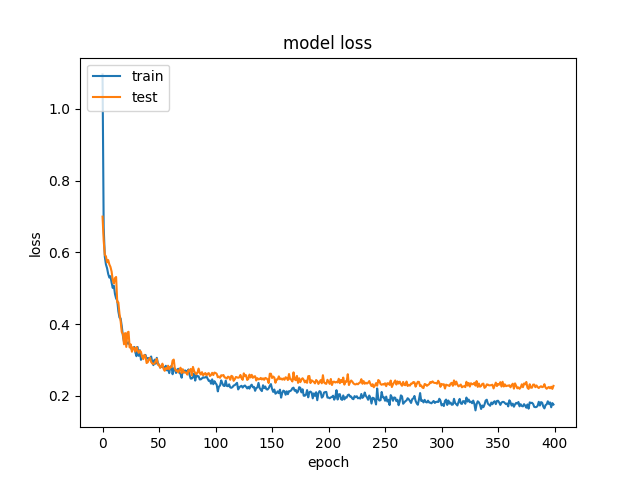
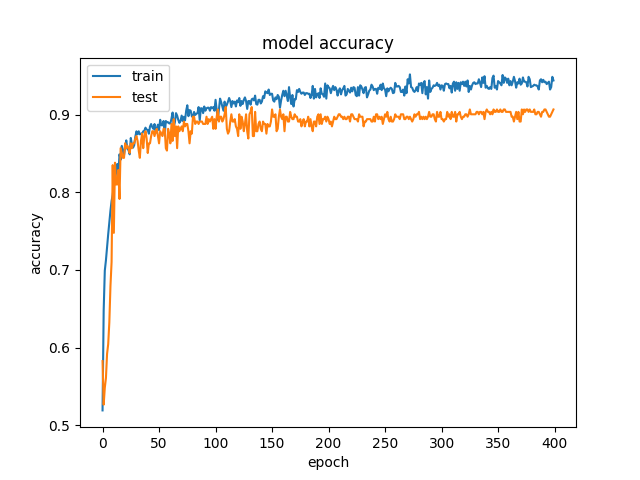
sevent net updates

diff --git a/sevennet.py b/sevennet.py
@@ -82,7 +82,7 @@ plt.xlabel('epoch')
 plt.legend(['train', 'test'], loc='upper left')
 #plt.show()
 
-plt.savefig(str(e)+'_sevennet.png')
+plt.savefig(str(e)+'_losssevennet.png')
 
 # this net gets about a .6558 on the leaderboard (1 EPOCH!!!) 
 
@@ -90,6 +90,8 @@ plt.savefig(str(e)+'_sevennet.png')
 
 # next round of testing: 
 # Test data
+
+'''
 x_band1 = np.array([np.array(band).astype(np.float32).reshape(75, 75) for band in test_df["band_1"]])
 x_band2 = np.array([np.array(band).astype(np.float32).reshape(75, 75) for band in test_df["band_2"]])
 X_test = np.concatenate([x_band1[:, :, :, np.newaxis], x_band2[:, :, :, np.newaxis]], axis=-1)
@@ -98,6 +100,6 @@ print("Xtest:", X_test.shape)
 prediction = model.predict(X_test, verbose=1)
 submit_df = pd.DataFrame({'id': test_df["id"], 'is_iceberg': prediction.flatten()})
 submit_df.to_csv("./sevennet_submission.csv", index=False)
-
+'''
 
 
